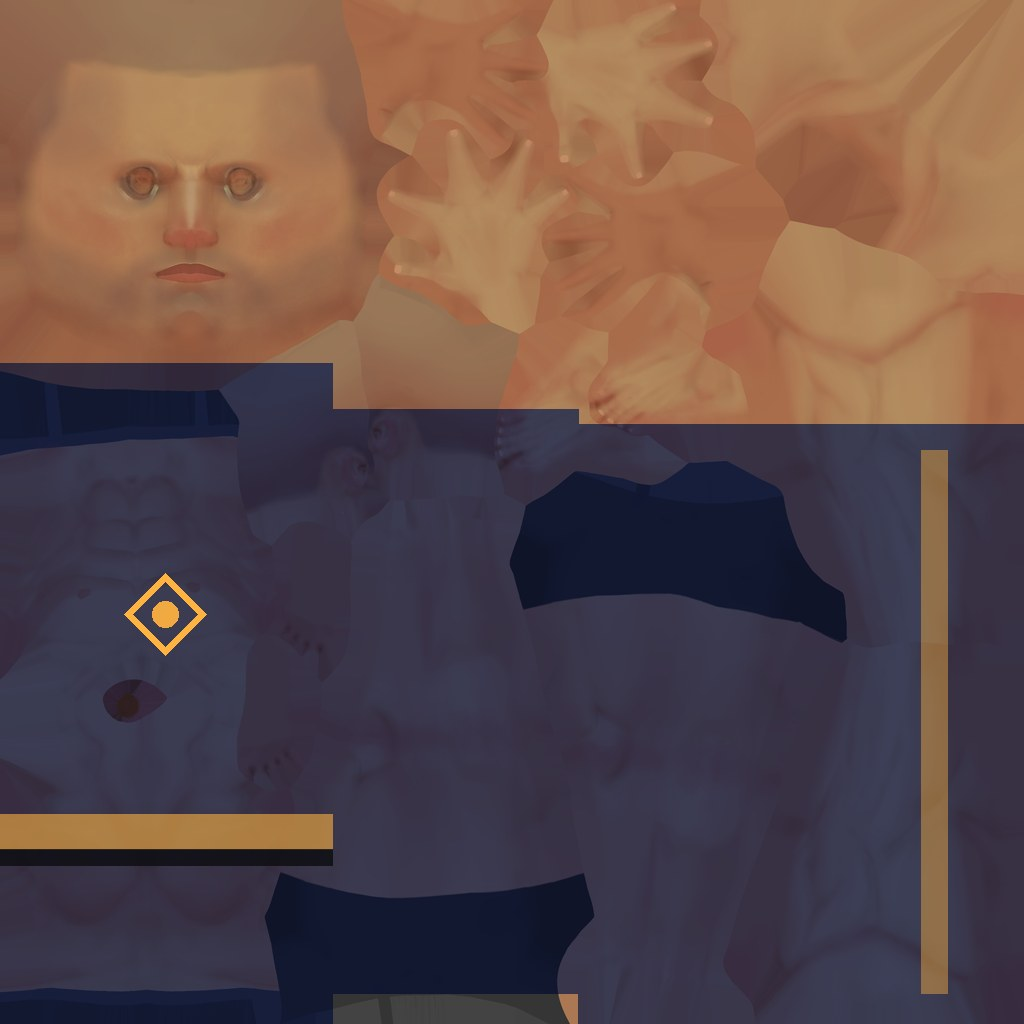
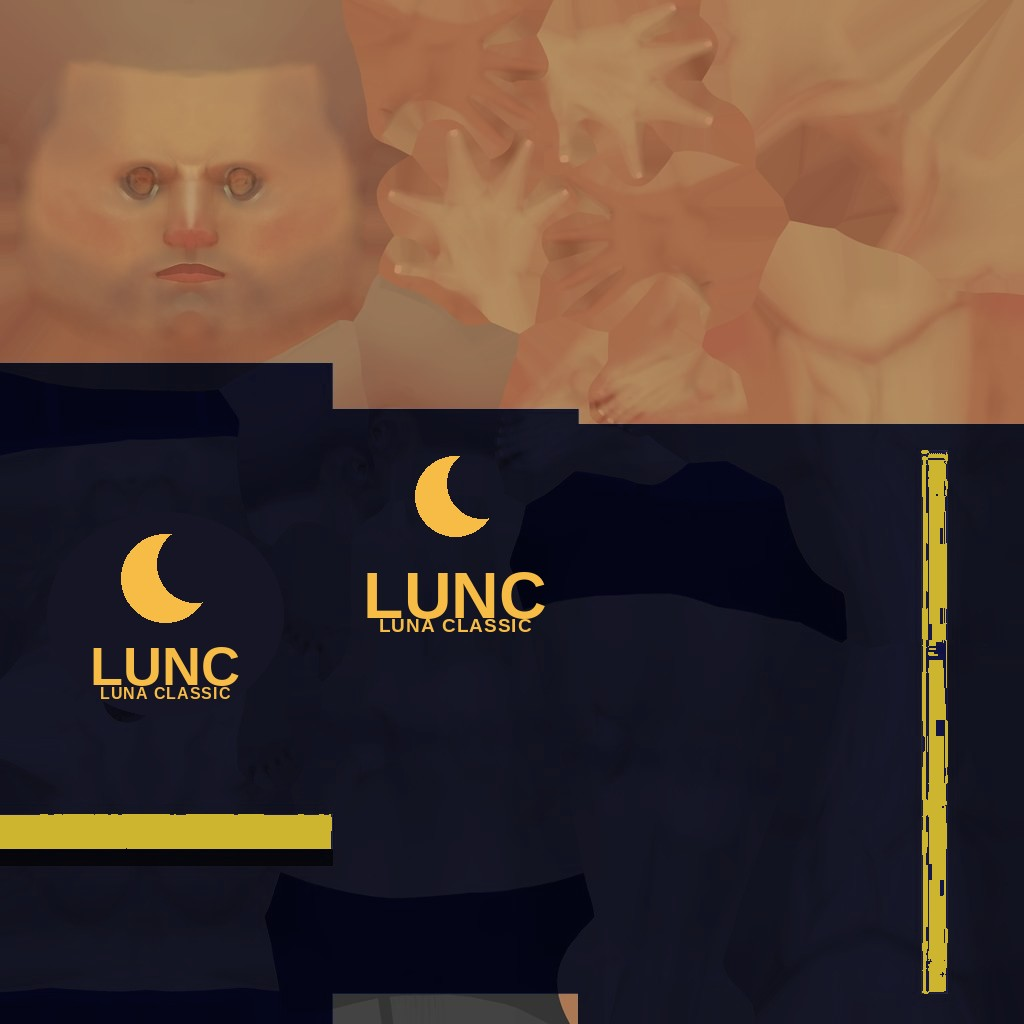
Arena Clash 3D: MR LUNC / MR USTC rename + LUNC & USTC outfits with readable shirt-back prints

diff --git a/client/public/arena-clash-3d/game.js b/client/public/arena-clash-3d/game.js
@@ -267,6 +267,53 @@ function findBone(root, name) {
   return found;
 }
 
+/* -------- shirt-back brand prints (LUNC / USTC outfits) --------
+   Drawn on a 1024px canvas: crescent + big wordmark + full name under it
+   (the crescent alone does not say Luna Classic — the words must appear). */
+function makeBrandTexture(brand) {
+  const W = 1024, H = 1024;
+  const c = document.createElement('canvas'); c.width = W; c.height = H;
+  const x = c.getContext('2d');
+  const grad = () => {
+    const g = x.createLinearGradient(0, 0, 0, H);
+    g.addColorStop(0, brand.bg1); g.addColorStop(1, brand.bg2);
+    return g;
+  };
+  x.fillStyle = grad(); x.fillRect(0, 0, W, H);
+  // accent pinstripes
+  x.fillStyle = brand.fg;
+  x.fillRect(0, 34, W, 10); x.fillRect(0, H - 44, W, 10);
+  x.globalAlpha = 0.5; x.fillRect(0, 62, W, 4); x.fillRect(0, H - 66, W, 4); x.globalAlpha = 1;
+  // crescent: gold disc minus an offset disc refilled with the same gradient
+  const cx = W / 2, cy = 272, r = 140;
+  x.fillStyle = brand.fg;
+  x.beginPath(); x.arc(cx, cy, r, 0, Math.PI * 2); x.fill();
+  x.fillStyle = grad();
+  x.beginPath(); x.arc(cx + r * 0.685, cy - r * 0.315, r * 0.865, 0, Math.PI * 2); x.fill();
+  // wordmark
+  x.textAlign = 'center'; x.textBaseline = 'middle';
+  try { x.letterSpacing = '4px'; } catch (e) { }
+  let fs = 360;
+  x.font = `900 ${fs}px Arial, Helvetica, sans-serif`;
+  const ww = x.measureText(brand.word).width;
+  if (ww > 884) { fs = Math.floor(fs * 884 / ww); x.font = `900 ${fs}px Arial, Helvetica, sans-serif`; }
+  x.fillStyle = brand.fg;
+  x.fillText(brand.word, cx, 606);
+  // rule + full name
+  x.fillRect(cx - 250, 726, 500, 7);
+  try { x.letterSpacing = '15px'; } catch (e) { }
+  let fs2 = 98;
+  x.font = `700 ${fs2}px Arial, Helvetica, sans-serif`;
+  const sw = x.measureText(brand.sub).width;
+  if (sw > 864) { fs2 = Math.floor(fs2 * 864 / sw); x.font = `700 ${fs2}px Arial, Helvetica, sans-serif`; }
+  x.fillStyle = brand.sub2;
+  x.fillText(brand.sub, cx, 818);
+  const t = new THREE.CanvasTexture(c);
+  t.colorSpace = THREE.SRGBColorSpace;
+  t.anisotropy = renderer.capabilities.getMaxAnisotropy();
+  return t;
+}
+
 class Fighter {
   constructor(cfg) {
     this.cfg = cfg;
@@ -342,6 +389,7 @@ class Fighter {
     this.headBone = findBone(this.model, 'Head');
     this.play('idle');
     this.applyFacing();
+    this.attachBranding();
   }
   dur(key) { const a = this.actions[key]; return a ? a.getClip().duration : 0.6; }
   play(key, opts = {}) {
@@ -365,6 +413,32 @@ class Fighter {
   bonePos(bone, out) {
     if (!bone) return out.set(this.x, 1.1 + this.y, 0);
     return bone.getWorldPosition(out);
+  }
+  /* Shirt-back print: a slightly curved panel carrying the brand canvas,
+     placed in world space behind the chest at load, then attached to the
+     chest bone so it follows every animation (leans, knockback, death). */
+  attachBranding() {
+    const brand = this.cfg.brand;
+    if (!brand || !this.chestBone) return;
+    this.mixer.update(0.05);
+    scene.updateMatrixWorld(true);
+    const geo = new THREE.PlaneGeometry(0.60, 0.60, 20, 1);
+    const pa = geo.attributes.position;
+    for (let i = 0; i < pa.count; i++) { const t = pa.getX(i) / 0.30; pa.setZ(i, -0.055 * t * t); }
+    geo.computeVertexNormals();
+    const panel = new THREE.Mesh(geo, new THREE.MeshStandardMaterial({ map: makeBrandTexture(brand), roughness: 0.85, metalness: 0 }));
+    panel.frustumCulled = false;
+    const cPos = new THREE.Vector3();
+    this.chestBone.getWorldPosition(cPos);
+    const back = new THREE.Vector3(-this.face, 0, 0);
+    const center = cPos.clone().addScaledVector(back, 0.17);
+    center.y -= 0.09;
+    panel.position.copy(center);
+    panel.lookAt(center.clone().add(back));
+    scene.add(panel);
+    scene.updateMatrixWorld(true);
+    this.chestBone.attach(panel);
+    this.backPanel = panel;
   }
 }
 
@@ -521,14 +595,16 @@ const CLIPMAP = {
   win: 'Idle_FoldArms_Loop',
 };
 const P1 = new Fighter({
-  name: 'RYKER', model: 'models/ryker/char.gltf', startX: -1.7, handBone: 'hand_r',
+  name: 'MR LUNC', model: 'models/ryker/char.gltf', startX: -1.7, handBone: 'hand_r',
   sparkColor: 0x7fd8ff, specialType: 'dash',
+  brand: { word: 'LUNC', sub: 'LUNA CLASSIC', bg1: '#111e46', bg2: '#04061a', fg: '#f6bc45', sub2: '#dfe6ff' },
   hair: ['models/ryker/Hair_SimpleParted.gltf', 'models/ryker/Hair_Beard.gltf'],
   clips: { ...CLIPMAP, heavy: 'Melee_Hook', special: 'Sword_Dash', throw: 'OverhandThrow' },
 });
 const P2 = new Fighter({
-  name: 'SABLE', model: 'models/sable/char.gltf', startX: 1.7, handBone: 'hand_l',
+  name: 'MR USTC', model: 'models/sable/char.gltf', startX: 1.7, handBone: 'hand_l',
   sparkColor: 0xff8095, specialType: 'orb',
+  brand: { word: 'USTC', sub: 'TERRA CLASSIC', bg1: '#1a4396', bg2: '#071a3e', fg: '#ffffff', sub2: '#cfe0ff' },
   hair: ['models/sable/Hair_Long.gltf'], hairTint: 0x6e4a34,
   clips: { ...CLIPMAP, heavy: 'Punch_Cross', special: 'Spell_Simple_Shoot', throw: 'Spell_Simple_Shoot' },
 });
@@ -974,9 +1050,9 @@ function animate() {
     await loadAnims('anim/ual1.glb', ['Idle_Loop', 'Walk_Loop', 'Crouch_Idle_Loop', 'Jump_Loop', 'Punch_Jab', 'Punch_Cross', 'Hit_Chest', 'Hit_Head', 'Death01', 'Roll', 'Spell_Simple_Shoot']);
     setLoad(0.3, 'ANIMATIONS II');
     await loadAnims('anim/ual2.glb', ['Idle_Shield_Loop', 'Idle_FoldArms_Loop', 'Melee_Hook', 'Hit_Knockback', 'Sword_Dash', 'OverhandThrow', 'Slide_Start', 'Slide_Loop', 'Sword_Regular_A']);
-    setLoad(0.5, 'RYKER');
+    setLoad(0.5, 'MR LUNC');
     await P1.load();
-    setLoad(0.75, 'SABLE');
+    setLoad(0.75, 'MR USTC');
     await P2.load();
     setLoad(1, 'READY');
     document.getElementById('loading').style.display = 'none';
@@ -1064,6 +1140,28 @@ function setupQA(mode) {
     updatePips();
     setBannerPerm('K.O.', '');
     document.getElementById('koFlash').style.opacity = 0.55;
+    game.phase = 'frozen';
+  } else if (mode === 'backlunc' || mode === 'backustc') {
+    // Both fighters turned away at real fight spacing — the shirt-back
+    // prints are the subject. Focus fighter stands tall; the other crouches.
+    const luncFocus = mode === 'backlunc';
+    P1.x = luncFocus ? -0.66 : -0.82; P2.x = luncFocus ? 0.82 : 0.66;
+    P1.group.position.x = P1.x; P2.group.position.x = P2.x;
+    P1.group.rotation.y = Math.PI; P2.group.rotation.y = Math.PI;
+    freezePose(luncFocus ? P1 : P2, 'win', 0.5);
+    freezePose(luncFocus ? P2 : P1, 'crouch', 0.4);
+    game.phase = 'frozen';
+  } else if (mode === 'backfight') {
+    // Mid-fight: MR LUNC's jab knocks MR USTC around — USTC back to camera.
+    P1.x = -0.55; P2.x = 0.58;
+    P1.group.position.x = P1.x; P2.group.position.x = P2.x;
+    P1.face = 1; P1.applyFacing();
+    P2.group.rotation.y = Math.PI * 0.8;
+    freezePose(P1, 'jab', 0.16);
+    freezePose(P2, 'knock', 0.12);
+    P2.hp = 84;
+    P2.bonePos(P2.chestBone, _v1); burst(_v1, 0x7fd8ff, 20, 3, 1.3);
+    slashArc(_v1, 0x7fd8ff, false);
     game.phase = 'frozen';
   }
   updateHUD();

diff --git a/client/public/arena-clash-3d/index.html b/client/public/arena-clash-3d/index.html
@@ -121,12 +121,12 @@
 
 <div id="hud" style="display:none">
   <div class="bar-wrap left">
-    <div class="pname"><span id="name1">RYKER</span><span class="ptitle">THE VANGUARD</span></div>
+    <div class="pname"><span id="name1">MR LUNC</span><span class="ptitle">LUNA CLASSIC</span></div>
     <div class="bar-shell"><div class="hp-ghost" id="ghost1"></div><div class="hp-fill" id="hp1"></div></div>
     <div class="pips" id="pips1"><div class="pip"></div><div class="pip"></div></div>
   </div>
   <div class="bar-wrap right">
-    <div class="pname"><span id="name2">SABLE</span><span class="ptitle">THE PHANTOM</span></div>
+    <div class="pname"><span id="name2">MR USTC</span><span class="ptitle">TERRA CLASSIC</span></div>
     <div class="bar-shell"><div class="hp-ghost" id="ghost2"></div><div class="hp-fill" id="hp2"></div></div>
     <div class="pips" id="pips2"><div class="pip"></div><div class="pip"></div></div>
   </div>
@@ -141,9 +141,9 @@
 <div id="menu" style="display:none">
   <div id="logo"><div class="l1">ARENA</div><div class="l2">CLASH 3D</div><div class="tag">MIDNIGHT COLOSSEUM</div></div>
   <div id="versus">
-    <div class="vcard p1"><div class="vn">RYKER</div><div class="vt">THE VANGUARD</div></div>
+    <div class="vcard p1"><div class="vn">MR LUNC</div><div class="vt">LUNA CLASSIC</div></div>
     <div id="vsBadge">VS</div>
-    <div class="vcard p2"><div class="vn">SABLE</div><div class="vt">THE PHANTOM</div></div>
+    <div class="vcard p2"><div class="vn">MR USTC</div><div class="vt">TERRA CLASSIC</div></div>
   </div>
   <button id="fightBtn">FIGHT</button>
   <div id="menuCtl">
